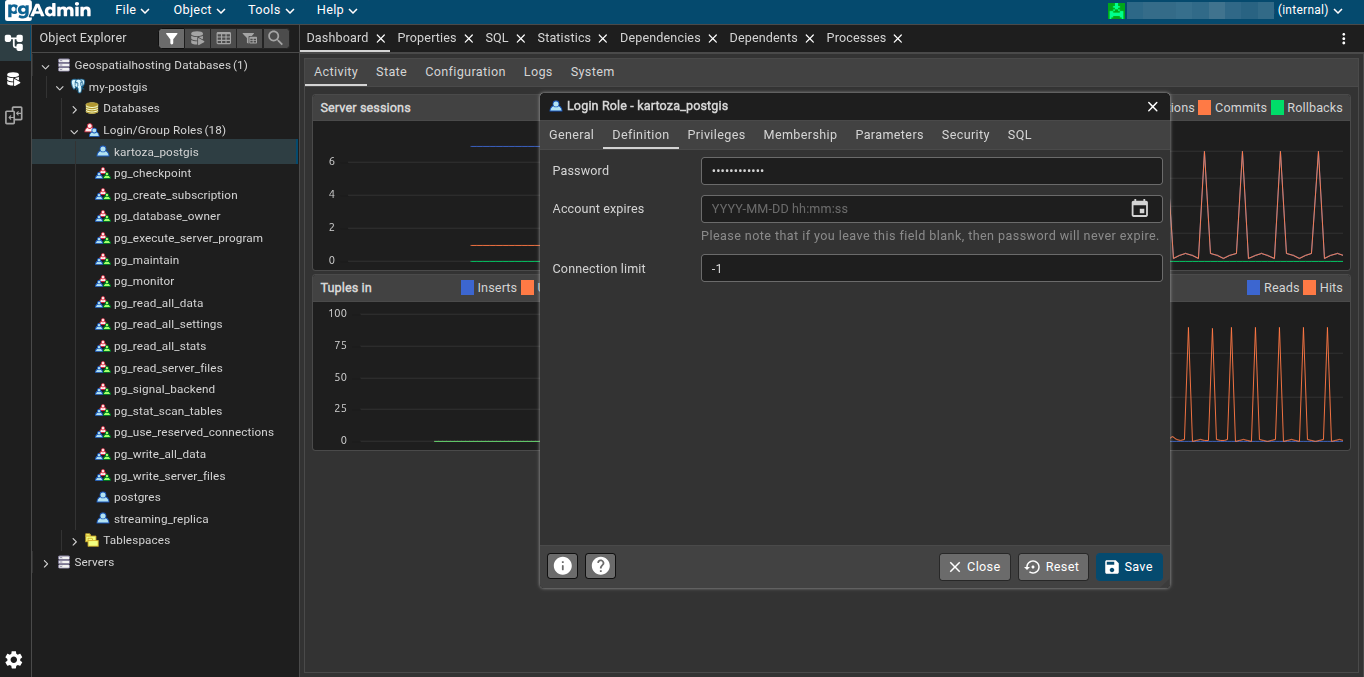
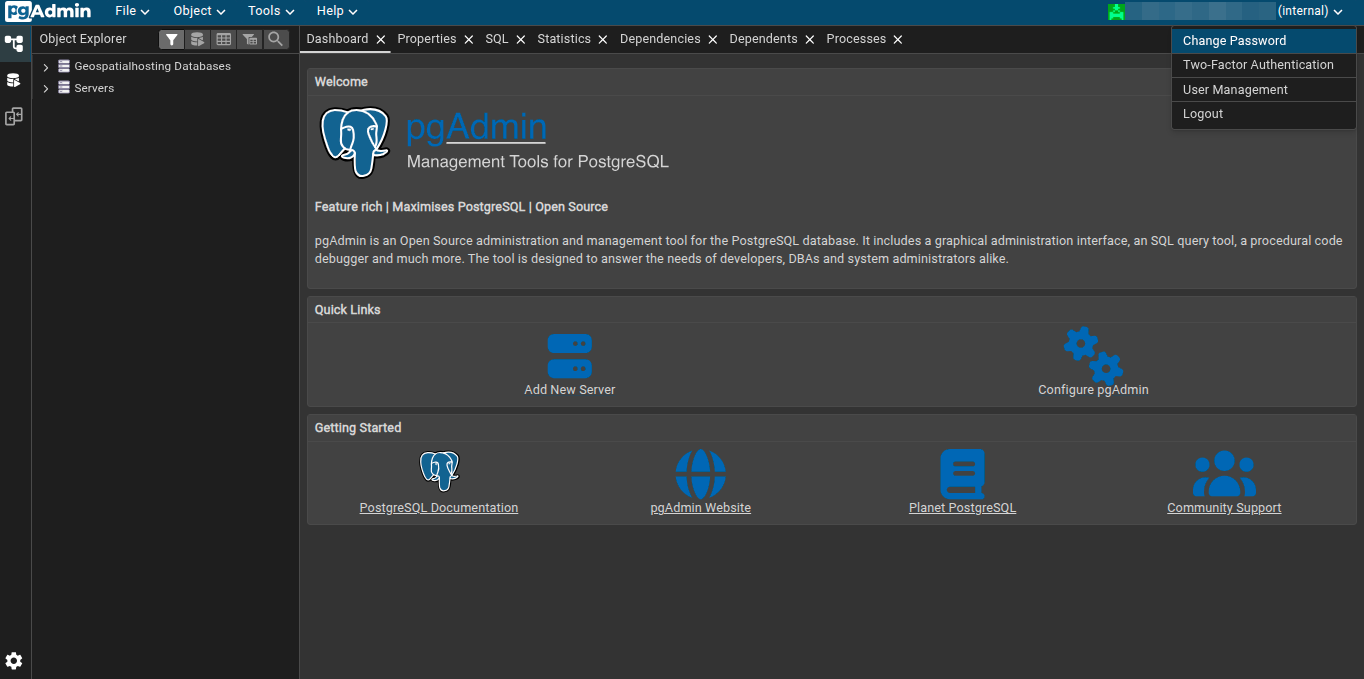
Add: PostGIS - Guide (First Login) 2

diff --git a/docs/src/products/postgis/guide/first_login.md b/docs/src/products/postgis/guide/first_login.md
@@ -55,19 +55,15 @@ Once logged in, the pgAdmin interface displays a clean workspace consisting of t
 
 ## Changing Your Password
 
-After your first login, it’s strongly recommended that you update your default password to keep your database secure.
+After your first login, it’s highly recommended to update your default password to keep your database secure.
 
-1. In the **Object Explorer**, expand the <span class="ui-generic-label">Geospatialhosting Databases</span> group. 
+1. Click the <span class="ui-generic-label">User</span> button in the upper-right corner of the pgAdmin interface.
 
-2. Locate your server, it will have the same name as your hosted product.
+2. From the dropdown menu, select <span class="ui-generic-label">Change Password</span>.
 
-3. Expand <span class="ui-generic-label">Login/Group Roles</span>.
+3. Enter your **current password**, then type your **new password** and re-enter it to confirm.
 
-4. Right-click <span class="ui-filename">kartoza_postgis</span>, and select <span class="ui-generic-label">Properties</span>. 
-
-5. Under the **Definition** tab, enter your new password in the <span class="ui-filename">Password</span> field. 
-
-6. Click <span class="ui-generic-label">Save</span> to confirm your changes.
+4. Click <span class="ui-generic-label">Change</span> to save your updated password.
 
 <br>
 
@@ -81,7 +77,7 @@ After your first login, it’s strongly recommended that you update your default
 <br>
 
 <div class="image-with-caption">
-  <img src="../../img/postgis-img-10.png" alt="Login/Group Roles">
+  <img src="../../img/postgis-img-10.png" alt="Change Password">
   <div class="caption">
     Image credit: <a href="https://www.pgadmin.org/" target="_blank">pgAdmin</a>
   </div>
